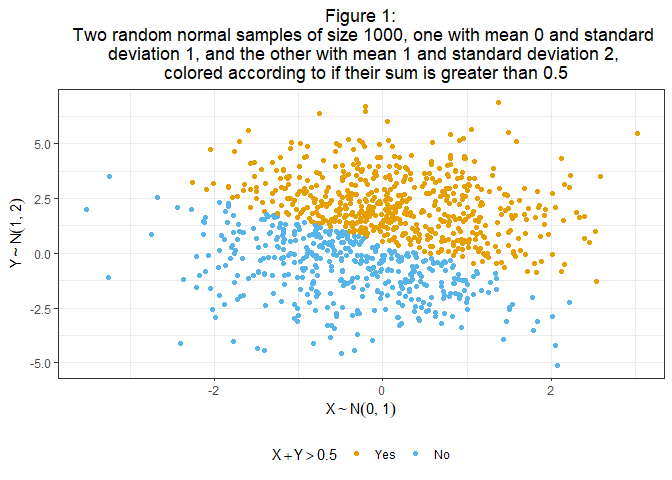
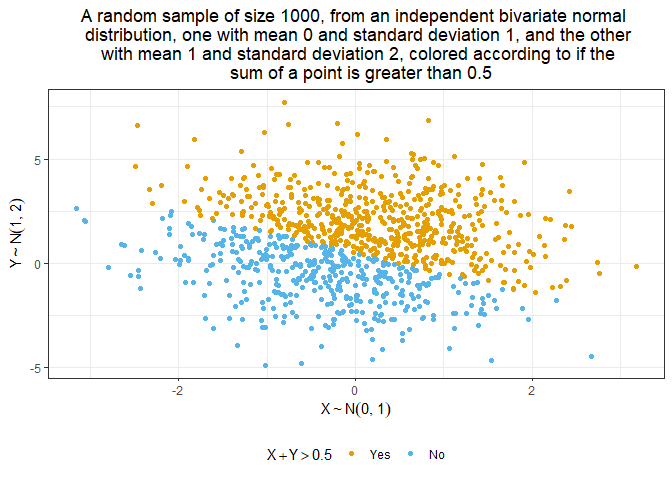
Added additional labels and titles to plots

diff --git a/src/homework1-andres-arguedas.md b/src/homework1-andres-arguedas.md
@@ -8,12 +8,15 @@ Andrés Arguedas
     -   [Data Description](#data-description)
     -   [Visualization](#visualization)
 
-# Problem 2.1
+## Problem 2.1
+
+*X* ∼ 𝒩(0,1) and *Y* ∼ 𝒩(1,2)
 
 ``` r
 sim_data <- tibble(
   x = rnorm(n = 1000, mean = 0, sd = 1),
   y = rnorm(n = 1000, mean = 1, sd = 2),
+  # Use the `ifelse()` function to create a logical variable if $X+Y>0.5$
   sum_indicator = ifelse(x + y > 0.5, TRUE, FALSE)) %>% 
   mutate(indicator_TRUE = factor(sum_indicator,
                                  labels = c("No", "Yes")),
@@ -23,10 +26,10 @@ sim_data <- tibble(
 ``` r
 sim_data %>% ggplot(aes(x = x, y = y, col = indicator_TRUE)) +
   geom_point() +
-  labs(title = "Figure 1:
-  Two random normal samples of size 1000, one with mean 0 and standard 
-  deviation 1, and the other with mean 1 and standard deviation 2, 
-  colored according to if their sum is greater than 0.5",
+  labs(title = "A random sample of size 1000, from an independent bivariate normal 
+  distribution, one with mean 0 and standard deviation 1, and the other 
+  with mean 1 and standard deviation 2, colored according to if the 
+  sum of a point is greater than 0.5",
        x = expression(X %~% N(0,1)),
        y = expression(Y %~% N(1,2)),
        col = expression(X + Y > 0.5))
@@ -34,39 +37,60 @@ sim_data %>% ggplot(aes(x = x, y = y, col = indicator_TRUE)) +
 
 ![](homework1-andres-arguedas_files/figure-gfm/plot-of-simulated-data-1.png)<!-- -->
 
-# Problem 2.2
+## Problem 2.2
 
-To start, we need to load the data into R
+To start, we need to load the data stored in the `penguin.RDS` file into
+R as the `penguin.df` object. We can do this using the `read_rds()`
+function from the [`readr`](https://readr.tidyverse.org) package, as
+follows:
 
 ``` r
 # Read the `penguin.RDS` file from the `data` folder
 penguin.df <- read_rds("./data/penguin.RDS")
 ```
 
-## Data Description
+Having read the data into R, we can proceed with the rest of the EDA.
 
--   Observations: 344
--   Variables: 8
--   Mean flipper length: 200.9152 mm
--   Mean bill length: 43.9219 mm
+### Data Description
 
-| Variable            | Description                                                        | Units or levels             |
-|---------------------|--------------------------------------------------------------------|-----------------------------|
-| `species`           | Species of the penguin                                             | Adelie, Chinstrap or Gentoo |
-| `island`            | Island of the Palmer Archipelago in which the penguin was observed | Biscoe, Dream or Torgersen  |
-| `bill_length_mm`    | Penguin’s bill length                                              | millimeters                 |
-| `bill_depth_mm`     | Penguin’s bill depth                                               | millimeters                 |
-| `flipper_length_mm` | Penguin’s flipper length                                           | millimeters                 |
-| `body_mass_g`       | Penguin’s body mass                                                | grams                       |
-| `sex`               | Penguin’s sex                                                      | Female or male              |
-| `year`              | Study year in which the penguin was observed                       | 2007, 2008 or 2009          |
+The dataset to be used contains a series of observations on size
+measurements for penguins in the [Palmer
+Archipelago](https://en.wikipedia.org/wiki/Palmer_Archipelago), near
+[Palmer Station,
+Antartica](https://en.wikipedia.org/wiki/Palmer_Station), taken from
+2007 to 2009. There are a total of 344 observations on 8 variables, each
+of these corresponding to a particular penguin on a given year.
+Specifically, the following variables were measured for each penguin:
 
-## Visualization
+| Variable            | Description                                                        | Units or levels                                                                                                                                                                |
+|---------------------|--------------------------------------------------------------------|--------------------------------------------------------------------------------------------------------------------------------------------------------------------------------|
+| `species`           | Species of the penguin                                             | [Adelie](https://en.wikipedia.org/wiki/Adélie_penguin), [Chinstrap](https://en.wikipedia.org/wiki/Chinstrap_penguin) or [Gentoo](https://en.wikipedia.org/wiki/Gentoo_penguin) |
+| `island`            | Island of the Palmer Archipelago in which the penguin was observed | Biscoe, Dream or Torgersen                                                                                                                                                     |
+| `bill_length_mm`    | Penguin’s bill length                                              | millimeters                                                                                                                                                                    |
+| `bill_depth_mm`     | Penguin’s bill depth                                               | millimeters                                                                                                                                                                    |
+| `flipper_length_mm` | Penguin’s flipper length                                           | millimeters                                                                                                                                                                    |
+| `body_mass_g`       | Penguin’s body mass                                                | grams                                                                                                                                                                          |
+| `sex`               | Penguin’s sex                                                      | Female or male                                                                                                                                                                 |
+| `year`              | Study year in which the penguin was observed                       | 2007, 2008 or 2009                                                                                                                                                             |
+
+Overall, there were only 2 penguins which could not be measured, and
+thus only their species, island and year were observed, while there were
+also 9 additional penguins which were measured, but their sex was not
+recorded. Ignoring the information for the two penguins without
+measurements, the mean flipper length was of 200.9152 mm, with a
+standard deviation of 14.0617 mm; while the mean bill length was 43.9219
+mm, with a standard deviation of 5.4596 mm.
+
+### Visualization
+
+First off, we will compare the flipper and bill lengths of the penguins,
+according to their species, which is presented in the following figure:
 
 ``` r
 penguin.df %>% ggplot(aes(y = flipper_length_mm, x = bill_length_mm, col = species)) +
   geom_point() +
-  labs(title = "",
+  labs(title = "Penguin's bill length by flipper length, separated by species, 
+       Palmer Archipelago, Antartica, from 2007-2009",
        x = "Bill length (mm)",
        y = "Flipper length (mm)",
        col = "Species")
@@ -74,11 +98,27 @@ penguin.df %>% ggplot(aes(y = flipper_length_mm, x = bill_length_mm, col = speci
 
 ![](homework1-andres-arguedas_files/figure-gfm/flipper-and-bill-length-by-species-1.png)<!-- -->
 
+Overall, there seems to be a relatively clear separation between the
+three species of penguins according to both their flipper and bill
+lengths. Specifically, Gentoo penguins seem to have the highest
+flippers, overall, while chinstrap penguin’s have longer bills than
+adelies. There are some penguins which seem to be smaller than the
+others in their species, and thus this separation is not exactly
+perfect, but it seems to be relatively good with only these two
+variables. Nevertheless, there might be further differences if we
+additionally separate the penguins according to their sex, which is
+presented in the following figure:
+
 ``` r
-penguin.df %>% ggplot(aes(y = flipper_length_mm, x = bill_length_mm, col = species)) +
-  facet_wrap(~ sex) +
+penguin.df %>% 
+  filter(!is.na(sex)) %>% 
+  rename(Sex = sex) %>% 
+  mutate(Sex = recode(Sex, female = "Female", male = "Male")) %>% 
+  ggplot(aes(y = flipper_length_mm, x = bill_length_mm, col = species)) +
+  facet_grid(~ Sex, labeller = label_both) +
   geom_point() +
-  labs(title = "",
+  labs(title = "Penguin's bill length by flipper length, separated by species and sex,
+       Palmer Archipelago, Antartica, from 2007-2009",
        x = "Bill length (mm)",
        y = "Flipper length (mm)",
        col = "Species")
